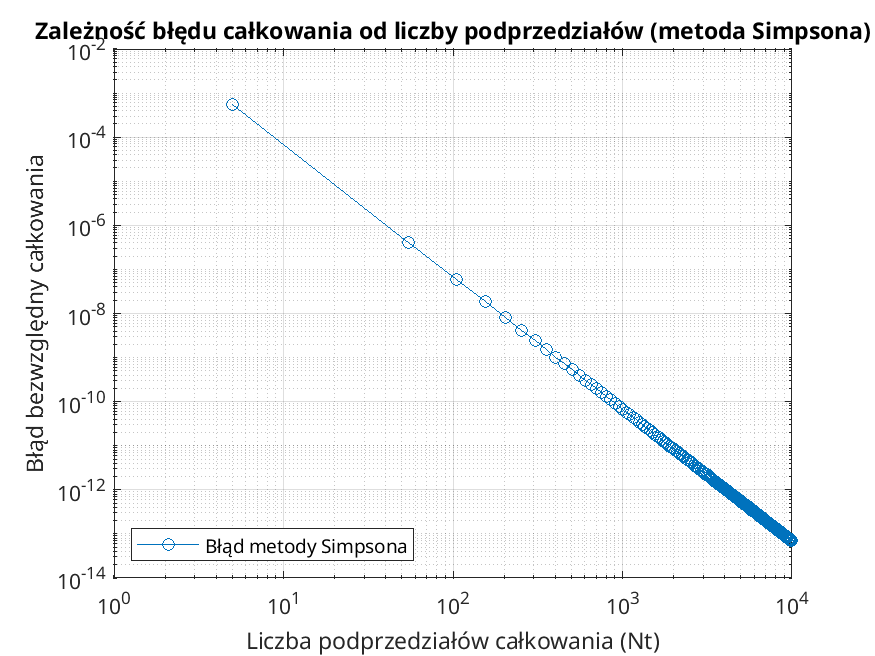
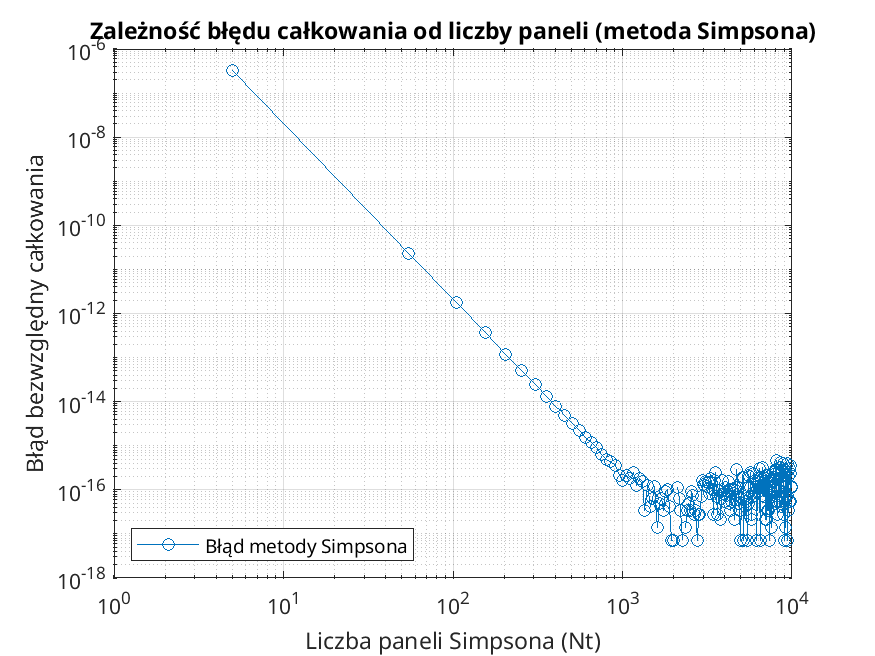
zadanie3 done + zadanie5 helper function downloaded

diff --git a/Sem4/MN/labs/lab7/zadanie3/simpson_rule_accuracy_evaluation.m b/Sem4/MN/labs/lab7/zadanie3/simpson_rule_accuracy_evaluation.m
@@ -8,25 +8,22 @@ function [ft_5, integral_1000, Nt, integration_error] = simpson_rule_accuracy_ev
     %
     % integral_1000 – przybliżona wartość całki oznaczonej na przedziale [0, 5]
     %   wyznaczona metodą Simpsona dla liczby podprzedziałów wynoszącej 1000.
+    %   Tutaj "liczba podprzedziałów" jest interpretowana jako N_elementary (h-steps).
     %
     % integration_error – wektor zawierający błędy bezwzględne numerycznego
-    %   wyznaczenia wartości całki oznaczonej. Wartość integration_error(1,i)
-    %   oznacza błąd obliczenia całki dla Nt(1,i) podprzedziałów:
-    %   integration_error(1, i) = abs(integral_approximation - reference_value),
-    %   gdzie reference_value to wzorcowa wartość całki.
+    %   wyznaczenia wartości całki oznaczonej.
     %
-    % Nt – wektor wierszowy zawierający liczby podprzedziałów całkowania,
-    %   dla których wyznaczane są przybliżenia całki i obliczany jest błąd.
+    % Nt – wektor wierszowy zawierający liczby "podprzedziałów całkowania" (paneli Simpsona, k).
 
-    reference_value = 0.0473612919396179; % wartość referencyjna całki
+    reference_value = 0.0473612919396179;
 
     ft_5 = failure_density_function(5);
     
-    N_for_integral_1000 = 1000; % liczba podprzedziałów całkowania (parzysta)
-    x_points_for_integral_1000 = linspace(0, 5, N_for_integral_1000 + 1); % punkty dla N=1000
-    integral_1000 = simpson_rule(x_points_for_integral_1000); % Wyznaczenie całki dla N=1000
+    N_elementary_for_integral_1000 = 1000; 
+    x_points_for_integral_1000 = linspace(0, 5, N_elementary_for_integral_1000 + 1);
+    integral_1000 = simpson_rule(x_points_for_integral_1000);
 
-    Nt = 5:50:10^4; % Wektor liczb podprzedziałów całkowania
+    Nt = 5:50:10^4;
     num_evaluations = length(Nt);
     integration_error = zeros(1, num_evaluations); % Prealokacja wektora błędów
 
@@ -34,33 +31,15 @@ function [ft_5, integral_1000, Nt, integration_error] = simpson_rule_accuracy_ev
     integration_domain_b = 5;
 
     for i = 1:num_evaluations
-        current_N_subintervals = Nt(i); % Aktualna liczba podprzedziałów
-        current_x_points = linspace(integration_domain_a, integration_domain_b, current_N_subintervals + 1);
+        k_panels_current = Nt(i); 
         
-        integral_approximation_current = 0;
-
-        if mod(current_N_subintervals, 2) == 0
-            % Liczba podprzedziałów jest parzysta, można użyć metody Simpsona bezpośrednio
-            integral_approximation_current = simpson_rule(current_x_points);
-        else
-            % Liczba podprzedziałów jest nieparzysta
-            if current_N_subintervals == 1
-                % Dla jednego podprzedziału użyj metody trapezów
-                h_trapz = current_x_points(2) - current_x_points(1);
-                y_trapz = failure_density_function(current_x_points);
-                integral_approximation_current = (h_trapz / 2) * (y_trapz(1) + y_trapz(2));
-            else
-                x_simpson_part = current_x_points(1:current_N_subintervals); % Ma N_subintervals punktów -> N_subintervals-1 podprzedziałów
-                integral_simpson_part = simpson_rule(x_simpson_part);
-                
-                % Punkty: current_x_points(N_subintervals) i current_x_points(N_subintervals+1)
-                h_trapz_last = current_x_points(current_N_subintervals+1) - current_x_points(current_N_subintervals);
-                y_trapz_last_pts = failure_density_function(current_x_points(current_N_subintervals : current_N_subintervals+1));
-                integral_trapz_last_part = (h_trapz_last / 2) * (y_trapz_last_pts(1) + y_trapz_last_pts(2));
-                
-                integral_approximation_current = integral_simpson_part + integral_trapz_last_part;
-            end
-        end
+        N_elementary_current = 2 * k_panels_current; 
+        
+        % Generowanie węzłów dla N_elementary_current podprzedziałów h.
+        current_x_points = linspace(integration_domain_a, integration_domain_b, N_elementary_current + 1);
+        
+        % Wywołanie funkcji simpson_rule, która oczekuje parzystej liczby elementarnych podprzedziałów.
+        integral_approximation_current = simpson_rule(current_x_points);
         
         integration_error(i) = abs(integral_approximation_current - reference_value);
     end
@@ -68,9 +47,9 @@ function [ft_5, integral_1000, Nt, integration_error] = simpson_rule_accuracy_ev
     % Generowanie wykresu
     figure;
     loglog(Nt, integration_error, '-o');
-    xlabel('Liczba podprzedziałów całkowania (Nt)');
+    xlabel('Liczba paneli Simpsona (Nt)'); % Oś X to liczba paneli k
     ylabel('Błąd bezwzględny całkowania');
-    title('Zależność błędu całkowania od liczby podprzedziałów (metoda Simpsona)');
+    title('Zależność błędu całkowania od liczby paneli (metoda Simpsona)');
     grid on;
     legend('Błąd metody Simpsona', 'Location', 'southwest');
 
@@ -78,61 +57,39 @@ function [ft_5, integral_1000, Nt, integration_error] = simpson_rule_accuracy_ev
     saveas(gcf, 'zadanie3.png');
 end
 
-function integral_approximation = simpson_rule(x)
-    % Oblicza przybliżoną wartość całki oznaczonej z funkcji gęstości
-    % prawdopodobieństwa (failure_density_function) przy użyciu
-    % metody Simpsona.
-    %
-    % x – wektor rosnących wartości określających końce przedziałów całkowania.
-    %     Dla n-elementowego wektora x zdefiniowanych jest n−1 przedziałów
-    %     całkowania: [x(1), x(2)], [x(2), x(3)], ..., [x(n−1), x(n)].
-    %
-    % integral_approximation – przybliżona wartość całki oznaczonej
+function integral_approximation = simpson_rule(x_domain_points)
+    N_elementary_steps = length(x_domain_points) - 1; % Liczba elementarnych podprzedziałów 'N'
 
-    k_subintervals = length(x) - 1;
-
-    if k_subintervals < 1 % Jeśli brak przedziałów lub tylko 1 punkt
+    if N_elementary_steps < 1 
         integral_approximation = 0;
         return;
     end
 
-    if mod(k_subintervals, 2) ~= 0
-        error('Metoda Simpsona (wzór 1/3) wymaga parzystej liczby podprzedziałów.');
+    if mod(N_elementary_steps, 2) ~= 0
+        error('Metoda Simpsona (wzór 1/3) wymaga parzystej liczby elementarnych podprzedziałów (N).');
     end
     
-    h = (x(end) - x(1)) / k_subintervals; % Szerokość podprzedziału
+    h = (x_domain_points(end) - x_domain_points(1)) / N_elementary_steps; 
     
-    y_values = failure_density_function(x); % Wartości funkcji w punktach x_i
+    y_values = failure_density_function(x_domain_points);
     
-    integral_sum = y_values(1) + y_values(end); % y_0 + y_k (gdzie k to k_subintervals)
+    current_sum = y_values(1) + y_values(end);
     
-    % Suma dla współczynników 4 (y_1, y_3, ..., y_{k-1})
-    % Matlab indices: 2, 4, ..., k
-    for j = 2:2:k_subintervals 
-        integral_sum = integral_sum + 4 * y_values(j);
+    for j = 2:2:N_elementary_steps
+        current_sum = current_sum + 4 * y_values(j);
     end
     
-    % Suma dla współczynników 2 (y_2, y_4, ..., y_{k-2})
-    % Matlab indices: 3, 5, ..., k-1
-    if k_subintervals > 2 % Tylko jeśli są wewnętrzne punkty z wagą 2
-        for j = 3:2:k_subintervals-1
-            integral_sum = integral_sum + 2 * y_values(j);
+   
+    if N_elementary_steps > 2
+        for j = 3:2:(N_elementary_steps-1)
+            current_sum = current_sum + 2 * y_values(j);
         end
     end
     
-    integral_approximation = (h / 3) * integral_sum;
+    integral_approximation = (h / 3) * current_sum;
 end
 
 function ft = failure_density_function(t)
-    % Zwraca wartości funkcji gęstości prawdopodobieństwa wystąpienia awarii
-    % urządzenia elektronicznego dla zadanych wartości czasu t.
-    %
-    % t – wektor wartości czasu (wyrażonych w latach), dla których obliczane
-    %   są wartości funkcji gęstości prawdopodobieństwa.
-    %
-    % ft – wektor zawierający wartości funkcji gęstości prawdopodobieństwa
-    %      odpowiadające kolejnym elementom wektora t.
-
     mu = 10;    % Średnia wartość
     sigma = 3;  % Odchylenie standardowe
     

diff --git a/Sem4/MN/labs/lab7/zadanie5/get_lake_depth.m b/Sem4/MN/labs/lab7/zadanie5/get_lake_depth.m
@@ -1,0 +1,44 @@
+function f = get_lake_depth( x, y )
+    % Zwraca aproksymację głębokości jeziora w punkcie (x,y).
+    % Zmienna f określa głębokość jeziora w metrach.
+
+    % Sprawdzenie liczby argumentów
+    if nargin ~= 2
+        error('Funkcja wymaga dokładnie dwóch argumentów: x oraz y.');
+    end
+
+    % Sprawdzenie typu danych
+    if ~isnumeric(x) || ~isnumeric(y)
+        error('Argumenty x i y muszą być typu numerycznego (double).');
+    end
+
+    if ~isa(x, 'double') || ~isa(y, 'double')
+        error('Argumenty x i y muszą być typu double.');
+    end
+
+    % Sprawdzenie wymiarów: wektory wierszowe
+    if ~isrow(x) || ~isrow(y)
+        error('Zarówno x, jak i y muszą być wektorami wierszowymi.');
+    end
+
+    % Sprawdzenie zgodności rozmiarów
+    if length(x) ~= length(y)
+        error('Wektory x i y muszą mieć ten sam rozmiar.');
+    end
+
+
+    x = x/100;
+    y = y/100;
+
+    w1=5; a1=30; x1=0.2; y1=0.3;
+    w2=6; a2=40; x2=0.6; y2=1.0;
+    w3=7; a3=50; x3=0.9; y3=0.5;
+    w4=6; a4=40; x4=0.6; y4=0.1;
+    w5=7; a5=70; x5=0.1; y5=0.95;
+    w6=-5; a6=10; x6=0.5; y6=0.5;
+    f=10 + w1*exp(-a1*((x-x1).^2+(y-y1).^2))+w2*exp(-a2*((x-x2).^2+(y-y2).^2))+w3*exp(-a3*((x-x3).^2+(y-y3).^2))+w4*exp(-a4*((x-x4).^2+(y-y4).^2))+w5*exp(-a5*((x-x5).^2+(y-y5).^2))+w6*exp(-a6*((x-x6).^2+(y-y6).^2));
+    f = f - 9.5;
+    f = f * 10;
+    f(f>0) = 0;
+end
+
